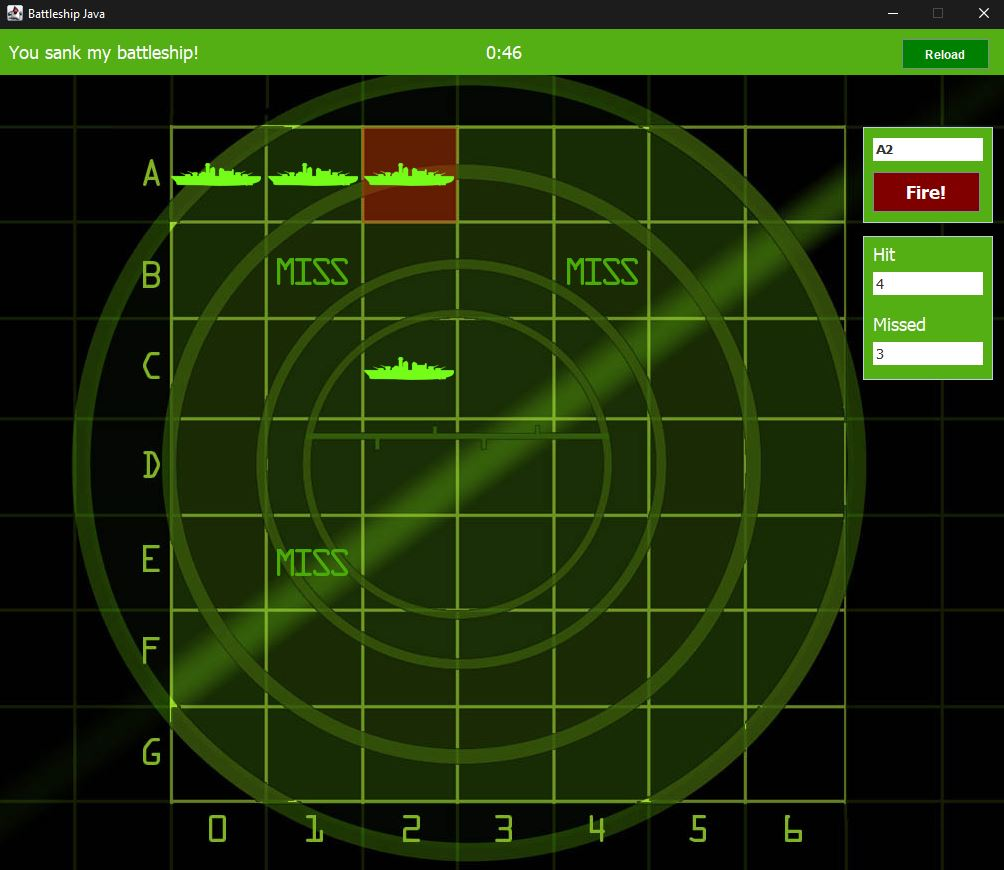
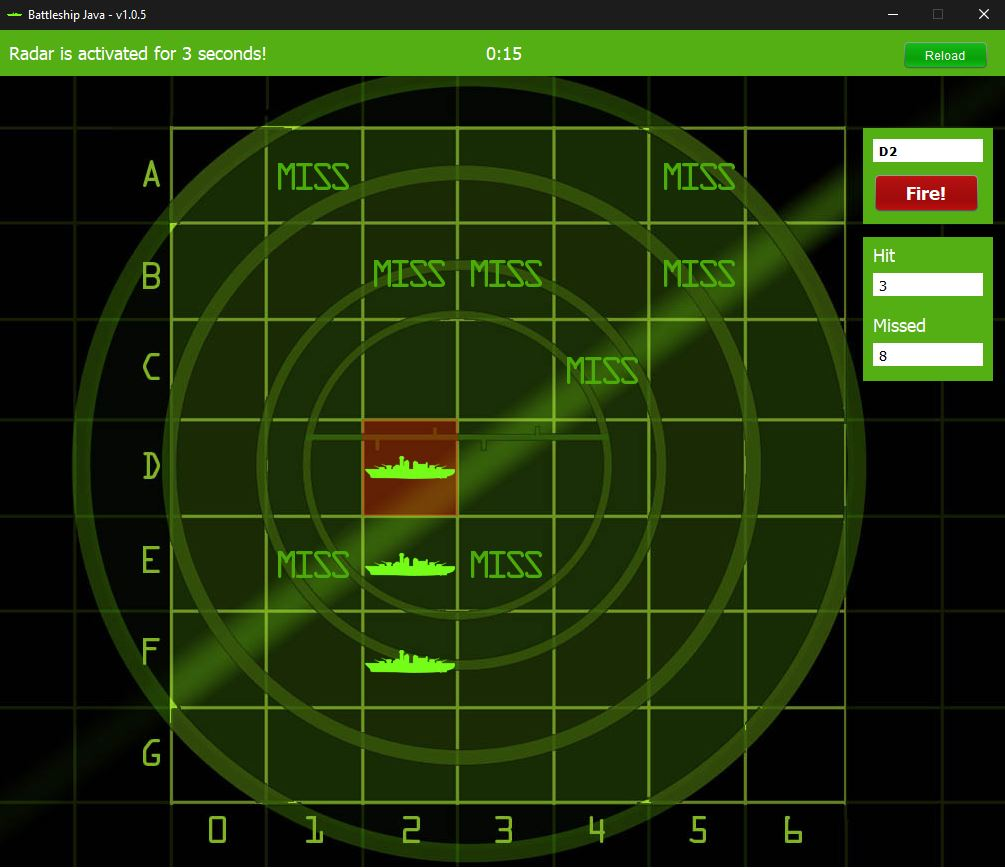
Added settings and radar power up

diff --git a/src/main/java/com/rogerio/ui/HeaderUI.java b/src/main/java/com/rogerio/ui/HeaderUI.java
@@ -2,15 +2,20 @@ package com.rogerio.ui;
 
 import java.awt.Color;
 import java.awt.Font;
+import java.awt.event.ActionEvent;
+import java.awt.event.WindowAdapter;
+import java.awt.event.WindowEvent;
 import java.util.Timer;
 import java.util.TimerTask;
 
 import javax.swing.JButton;
+import javax.swing.JDialog;
 import javax.swing.JLabel;
 import javax.swing.JPanel;
 import javax.swing.SwingConstants;
 
 import com.rogerio.model.Scoreboard;
+import com.rogerio.ui.dialog.GameSettingsDialog;
 
 /**
  * @author petruki (Roger Floriano)
@@ -18,10 +23,11 @@ import com.rogerio.model.Scoreboard;
 @SuppressWarnings("serial")
 public class HeaderUI extends JPanel {
 	
+	private JButton btnSettings;
 	private JLabel txtTimer;
 	private JLabel txtMessage;
 	private final MainUI context;
-	private final String timeLimit;
+	private String timeLimit;
 	
 	private Timer timer;
 	private int secs = 0;
@@ -61,6 +67,34 @@ public class HeaderUI extends JPanel {
 		btnReload.setFocusable(false);
 		btnReload.addActionListener(context::onStartNewGame);
 		add(btnReload);
+		
+		btnSettings = new JButton("Settings");
+		btnSettings.setVisible(false);
+		btnSettings.setForeground(Color.WHITE);
+		btnSettings.setFocusable(false);
+		btnSettings.setBackground(new Color(0, 128, 0));
+		btnSettings.setBounds(806, 11, 87, 30);
+		btnSettings.addActionListener(this::onSettings);
+		add(btnSettings);
+	}
+	
+	private void onSettings(ActionEvent event) {
+		GameSettingsDialog gameSettings = new GameSettingsDialog();
+		gameSettings.setDefaultCloseOperation(JDialog.DISPOSE_ON_CLOSE);
+		gameSettings.setVisible(true);
+		
+		gameSettings.setDefaultCloseOperation(
+			    JDialog.DISPOSE_ON_CLOSE);
+		
+		gameSettings.addWindowListener(new WindowAdapter() {
+		    @Override
+		    public void windowClosed(WindowEvent e) {
+		    	if (gameSettings.isStartGame()) {
+		    		timeLimit = gameSettings.getTimeLimit();
+		    		context.changeSettings(gameSettings.getShips(), gameSettings.getShipSize());
+		    	}
+	    	}
+		});
 	}
 	
 	private void updateTxtTimer() {
@@ -100,6 +134,7 @@ public class HeaderUI extends JPanel {
 	public void reloadGame() {
 		txtTimer.setText("0:00");
 		txtMessage.setText("");
+		btnSettings.setVisible(false);
 		
 		TimerTask timerTask = new TimerTask() {
             @Override
@@ -117,6 +152,11 @@ public class HeaderUI extends JPanel {
        	timer = new Timer();
     	timer.scheduleAtFixedRate(timerTask, 1000, 1000);
     }
+	
+	public void onGameFinished() {
+		timer.cancel();
+		btnSettings.setVisible(true);
+	}
 	
 	public void updateText(String textMessage) {
 		txtMessage.setText(textMessage);

diff --git a/src/main/java/com/rogerio/ui/dialog/GameSettingsDialog.java b/src/main/java/com/rogerio/ui/dialog/GameSettingsDialog.java
@@ -1,8 +1,10 @@
-package com.rogerio.ui;
+package com.rogerio.ui.dialog;
 
 import java.awt.BorderLayout;
+import java.awt.Color;
 import java.awt.Dimension;
 import java.awt.FlowLayout;
+import java.awt.Font;
 import java.awt.Toolkit;
 import java.awt.event.ActionEvent;
 import java.awt.event.ActionListener;
@@ -23,13 +25,17 @@ import net.miginfocom.swing.MigLayout;
 @SuppressWarnings("serial")
 public class GameSettingsDialog extends JDialog {
 
-	private final JPanel contentPanel = new JPanel();
-	private final JComboBox<Integer> comboShips;
-	private final JComboBox<Integer> comboShipSize;
-	private final JComboBox<String> comboTimeLimit;
+	private JPanel contentPanel = new JPanel();
+	private JComboBox<Integer> comboShips;
+	private JComboBox<Integer> comboShipSize;
+	private JComboBox<String> comboTimeLimit;
 	private boolean startGame = false;
 	
 	public GameSettingsDialog() {
+		buildPanel();
+	}
+	
+	private void buildPanel() {
 		setTitle("Battleship Settings");
 		setIconImage(ResourcesCache.getInstance().getImages(ResourceConstants.IMG_HIT));
 		setBounds(100, 100, 225, 179);
@@ -68,13 +74,14 @@ public class GameSettingsDialog extends JDialog {
 		buttonPane.setLayout(new FlowLayout(FlowLayout.RIGHT));
 		getContentPane().add(buttonPane, BorderLayout.SOUTH);
 		
-		JButton okButton = new JButton("Start");
-		okButton.setActionCommand("OK");
+		JButton okButton = new JButton("Apply");
 		buttonPane.add(okButton);
+		okButton.setForeground(new Color(255, 255, 255));
+		okButton.setBackground(new Color(128, 0, 0));
+		okButton.setFont(new Font("Tahoma", Font.BOLD, 18));
 		getRootPane().setDefaultButton(okButton);
 		
 		okButton.addActionListener(new ActionListener() {
-			
 			@Override
 			public void actionPerformed(ActionEvent e) {
 				startGame = true;

diff --git a/src/main/java/com/rogerio/GameInitializer.java b/src/main/java/com/rogerio/GameInitializer.java
@@ -6,12 +6,14 @@ import java.awt.event.WindowEvent;
 
 import javax.swing.JDialog;
 import javax.swing.JOptionPane;
+import javax.swing.UIManager;
+import javax.swing.UIManager.LookAndFeelInfo;
 
 import org.apache.logging.log4j.LogManager;
 import org.apache.logging.log4j.Logger;
 
-import com.rogerio.ui.GameSettingsDialog;
 import com.rogerio.ui.MainUI;
+import com.rogerio.ui.dialog.GameSettingsDialog;
 import com.rogerio.util.ResourcesCache;
 
 /**
@@ -25,6 +27,7 @@ public class GameInitializer {
 	public static final int SHIP_SIZE = 3;
 
 	public static void main(String[] args) {
+		setupNimbus();
 		setupGame();
 	}
 	
@@ -32,10 +35,6 @@ public class GameInitializer {
 		GameSettingsDialog gameSettings = new GameSettingsDialog();
 		gameSettings.setDefaultCloseOperation(JDialog.DISPOSE_ON_CLOSE);
 		gameSettings.setVisible(true);
-		
-		gameSettings.setDefaultCloseOperation(
-			    JDialog.DISPOSE_ON_CLOSE);
-		
 		gameSettings.addWindowListener(new WindowAdapter() {
 		    @Override
 		    public void windowClosed(WindowEvent e) {
@@ -62,6 +61,19 @@ public class GameInitializer {
 				}
 			}
 		});
+	}
+	
+	private static void setupNimbus() {
+		try {
+		    for (LookAndFeelInfo info : UIManager.getInstalledLookAndFeels()) {
+		        if ("Nimbus".equals(info.getName())) {
+		            UIManager.setLookAndFeel(info.getClassName());
+		            break;
+		        }
+		    }
+		} catch (Exception e) {
+			logger.error(e);
+		}
 	}
 
 }

diff --git a/src/main/java/com/rogerio/controller/GameController.java b/src/main/java/com/rogerio/controller/GameController.java
@@ -17,6 +17,8 @@ public class GameController {
 	private static final Logger logger = LogManager.getLogger(GameController.class);
 	
 	private Scoreboard scoreBoard;
+	private int missCounter = 0;
+	private boolean radar;
 
 	/**
 	 * Generate game matrix targets
@@ -131,6 +133,9 @@ public class GameController {
 					int slot = Integer.parseInt(result.toString());
 					if (slot != 0)
 						boardMatrix[row][col] = -1;
+					else
+						missCounter++;
+					
 					return Target.createTarget(slot, row, col);
 				}
 			}
@@ -143,8 +148,31 @@ public class GameController {
 		throw new Exception("Oops, that's off the board!");
 	}
 
+	public boolean activateRadar() {
+		if (missCounter >= 3) {
+			missCounter = 0;
+			radar = true;
+			new Thread() {
+				public void run() {
+					try {
+						Thread.sleep(3000);
+						radar = false;
+					} catch (InterruptedException e) {
+						logger.error(e);
+					}
+				};
+			}.start();
+			return true;
+		}
+		return false;
+	}
+
 	public Scoreboard getScoreBoard() {
 		return scoreBoard;
+	}
+	
+	public boolean isRadarActivated() {
+		return radar;
 	}
 
 }

diff --git a/src/main/java/com/rogerio/ui/board/TableRender.java b/src/main/java/com/rogerio/ui/board/TableRender.java
@@ -9,6 +9,7 @@ import javax.swing.JPanel;
 import javax.swing.JTable;
 import javax.swing.table.TableCellRenderer;
 
+import com.rogerio.controller.GameController;
 import com.rogerio.model.Target;
 
 /**
@@ -16,7 +17,10 @@ import com.rogerio.model.Target;
  */
 public class TableRender implements TableCellRenderer {
 	
-	public TableRender(JTable table) {
+	private final GameController gameController;
+	
+	public TableRender(JTable table, GameController gameController) {
+		this.gameController = gameController;
 		setupTable(table);
 	}
 	
@@ -31,6 +35,10 @@ public class TableRender implements TableCellRenderer {
 		if (isSelected && hasFocus) {
 			cell.setOpaque(true);
 			cell.setBackground(new Color(0, 255, 0, 80));
+			
+			if (!value.toString().equals("0") && gameController.isRadarActivated()) {
+				cell.setBackground(new Color(255, 255, 255, 80));
+			}
 		}
 		
 		setIcon(cell, table, row, column, isSelected);

diff --git a/src/main/java/com/rogerio/ui/ControlUI.java b/src/main/java/com/rogerio/ui/ControlUI.java
@@ -8,7 +8,6 @@ import javax.swing.JButton;
 import javax.swing.JOptionPane;
 import javax.swing.JPanel;
 import javax.swing.JTextPane;
-import javax.swing.border.TitledBorder;
 
 import org.apache.logging.log4j.LogManager;
 import org.apache.logging.log4j.Logger;
@@ -33,7 +32,6 @@ public class ControlUI extends JPanel {
 	}
 	
 	private void buildPanel() {
-		setBorder(new TitledBorder(null, "", TitledBorder.LEADING, TitledBorder.TOP, null, null));
 		setBackground(new Color(83, 175, 19));
 		setBounds(864, 98, 130, 96);
 		setLayout(null);
@@ -65,6 +63,10 @@ public class ControlUI extends JPanel {
 				onHit(boardUI, headerUI, result);
 			} else {
 				onMiss(headerUI);
+			}
+			
+			if (context.getGameController().activateRadar()) {
+				headerUI.updateText("Radar is activated for 3 seconds!");
 			}
 			
 			//updates the board

diff --git a/src/main/java/com/rogerio/ui/ScoreUI.java b/src/main/java/com/rogerio/ui/ScoreUI.java
@@ -7,7 +7,6 @@ import javax.swing.JLabel;
 import javax.swing.JPanel;
 import javax.swing.JTextPane;
 import javax.swing.SwingConstants;
-import javax.swing.border.TitledBorder;
 
 import com.rogerio.model.Scoreboard;
 
@@ -26,7 +25,6 @@ public class ScoreUI extends JPanel {
 	
 	private void buildPanel() {
 		setLayout(null);
-		setBorder(new TitledBorder(null, "", TitledBorder.LEADING, TitledBorder.TOP, null, null));
 		setBackground(new Color(83, 175, 19));
 		setBounds(864, 207, 130, 144);
 

diff --git a/src/main/java/com/rogerio/ui/MainUI.java b/src/main/java/com/rogerio/ui/MainUI.java
@@ -110,7 +110,12 @@ public class MainUI extends JFrame {
 		boardUI.setVisible(false);
 		controlUI.setVisible(false);
 		scoreUI.setVisible(false);
-		headerUI.getTimer().cancel();
+		headerUI.onGameFinished();
+	}
+	
+	public void changeSettings(int ships, int shipSize) {
+		this.ships = ships;
+		this.shipSize = shipSize;
 	}
 
 	public GameController getGameController() {

diff --git a/src/main/java/com/rogerio/ui/BoardUI.java b/src/main/java/com/rogerio/ui/BoardUI.java
@@ -54,7 +54,7 @@ public class BoardUI extends JTable {
 	
 	public void setBoard(Object[][] matrix) {
 		setModel(tableModel.getTableModel(matrix));
-		new TableRender(this);
+		new TableRender(this, context.getGameController());
 	}
 
 	public Object[][] getBoard() {

diff --git a/README.md b/README.md
@@ -13,6 +13,8 @@ Battleship Java is a simple Java Swing based game app.
 - Easy game reload
 - Scoreboard
 - Interactive board. Click and hit fire or Double-click to fire!
+- Custom settings
+- Radar power up!
 
 
 #### Import to IDE
